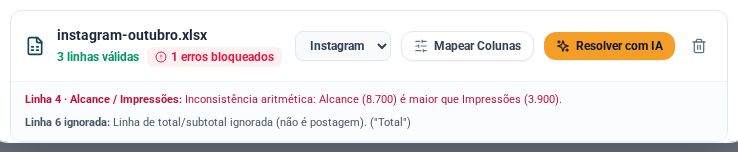
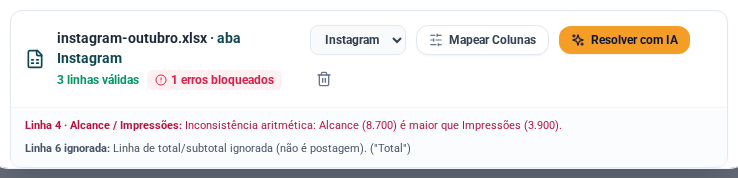
docs(manual): publica 2026-10-31

diff --git a/mes-do-analista.md b/mes-do-analista.md
@@ -17,6 +17,7 @@ Os exemplos e as telas vêm do relatório de outubro de 2026 do **Instituto Hori
 |---|---|---|
 | 1 | [Escolher o cliente ativo](#1-escolher-o-cliente-ativo) | cabeçalho do sistema |
 | 2 | [Criar o período do mês](#2-criar-o-período-do-mês), com ou [sem planilha](#criar-o-mês-sem-planilha) | Períodos & Emissão |
+| 2b | [Ler as fontes ao criar o mês](#ler-as-fontes-ao-criar-o-mês) | Períodos & Emissão |
 | 3 | [Importar as planilhas das redes](#3-importar-as-planilhas-das-redes) | Períodos & Emissão |
 | 3b | [Informar os seguidores de cada rede](#3b-informar-os-seguidores-de-cada-rede) | Períodos & Emissão |
 | 3c | [Ler da Meta, no lugar da planilha](#3c-ler-da-meta-no-lugar-da-planilha) | Períodos & Emissão |
@@ -67,8 +68,13 @@ Os exemplos e as telas vêm do relatório de outubro de 2026 do **Instituto Hori
    - **Com planilha:** siga para a importação (próxima tarefa).
    - **Sem planilha:** não escolha arquivo nenhum. O botão do canto da janela passa a dizer **Criar mês sem planilha**, e uma dica embaixo explica: sem arquivo, o mês é criado vazio, e você lê direto das redes ligadas ou acrescenta uma planilha depois. Clique nele (veja [Criar o mês sem planilha](#criar-o-mês-sem-planilha)).
    - Para desistir, feche com **Cancelar**.
+6. Se o cliente tem fontes ligadas (redes, site, cursos), a janela mostra o bloco **Ler ao criar o mês**, com cada uma já marcada. Confira o que vai ser lido e desmarque o que não quiser. Veja [Ler as fontes ao criar o mês](#ler-as-fontes-ao-criar-o-mês).
 
-![Janela Importar Novo Período, com mês, ano, ciclo de medição e a área para soltar as planilhas]({{ '/assets/img/app/app-03-novo-periodo.png' | relative_url }})
+![Janela Importar Novo Período, com mês, ano, ciclo de medição, a área para soltar as planilhas e o bloco Ler ao criar o mês, com Instagram, Facebook, YouTube e Site marcados]({{ '/assets/img/app/app-03-novo-periodo.png' | relative_url }})
+
+No celular, a janela é a mesma, em uma coluna só: o bloco **Ler ao criar o mês** fica logo acima dos botões.
+
+![Janela Importar Novo Período no celular, em uma coluna, com o bloco Ler ao criar o mês acima dos botões Cancelar e Criar mês sem planilha]({{ '/assets/img/app/app-03-novo-periodo-mobile.png' | relative_url }})
 
 ### Criar o mês sem planilha
 
@@ -77,12 +83,12 @@ Os exemplos e as telas vêm do relatório de outubro de 2026 do **Instituto Hori
 **O que acontece quando você clica em Criar mês sem planilha**
 
 1. A janela fecha e o mês aparece na lista de períodos como **"0 publicações · 0 arquivos"**. É assim que um mês vazio se apresenta, e não é erro.
-2. Ao abrir o mês, ele abre normalmente. Para cada rede ligada ao cliente você vê o bloco de leitura: **Ler da Meta**, **Ler do YouTube** e **Ler do LinkedIn** (veja as tarefas [3c](#3c-ler-da-meta-no-lugar-da-planilha) e [3d](#3d-ler-do-youtube-e-do-linkedin-no-lugar-da-planilha)). Cliente sem nenhuma rede ligada não tem esses blocos, e aí a saída é a planilha.
+2. Se havia fontes marcadas em **Ler ao criar o mês**, a leitura delas começa agora, em segundo plano (veja [Ler as fontes ao criar o mês](#ler-as-fontes-ao-criar-o-mês)). Se você desmarcou todas, o mês fica vazio. Em qualquer dos casos, ao abrir o mês, ele abre normalmente. Para cada rede ligada ao cliente você vê o bloco de leitura: **Ler da Meta**, **Ler do YouTube** e **Ler do LinkedIn** (veja as tarefas [3c](#3c-ler-da-meta-no-lugar-da-planilha) e [3d](#3d-ler-do-youtube-e-do-linkedin-no-lugar-da-planilha)). Cliente sem nenhuma rede ligada não tem esses blocos, e aí a saída é a planilha.
 3. A planilha continua valendo: **Acrescentar Planilha**, na página do mês, soma uma rede que a leitura não cobre (o TikTok, por exemplo, só entra por planilha).
 
 ![Mês criado sem planilha, com 0 publicações e 0 arquivos na lista e os blocos Ler da Meta e Ler do YouTube na página do mês]({{ '/assets/img/app/app-99-mes-vazio-blocos-leitura.png' | relative_url }})
 
-**Exemplo.** O Instituto Horizonte tem o Instagram e o Facebook ligados à Meta e o LinkedIn ligado. No dia 1º de novembro você cria **outubro de 2026** sem planilha. O mês aparece com "0 publicações · 0 arquivos"; você abre, clica em **Ler da Meta** e depois em **Ler do LinkedIn**, e as publicações entram sem arquivo nenhum.
+**Exemplo.** O Instituto Horizonte tem o Instagram e o Facebook ligados à Meta e o LinkedIn ligado. No dia 1º de novembro você cria **outubro de 2026** sem planilha e **desmarca** as fontes do bloco **Ler ao criar o mês**, porque prefere ler uma rede de cada vez. O mês aparece com "0 publicações · 0 arquivos"; você abre, clica em **Ler da Meta** e depois em **Ler do LinkedIn**, e as publicações entram sem arquivo nenhum. (Com as fontes marcadas, que é o padrão, essa leitura já teria corrido sozinha: a próxima seção conta como.)
 
 **Se o mês já existe.** Criar sem planilha um mês que já está no sistema **não grava nada e não substitui nada**. A janela fecha, a tela abre o mês que estava salvo e mostra, por alguns segundos, o aviso **"Este mês já existe: abrimos o que estava salvo."** É de propósito: você não perde as publicações, os textos nem os seguidores já lançados por apertar o botão sem pensar.
 
@@ -101,6 +107,70 @@ Os exemplos e as telas vêm do relatório de outubro de 2026 do **Instituto Hori
 | O mês aparece com **"0 publicações · 0 arquivos"** | O mês nasceu vazio, como esperado | Leia das redes ou acrescente uma planilha |
 | Não há bloco de leitura na página do mês | O cliente não tem aquela rede ligada | Avise o super-administrador para ligar a rede, ou use a planilha |
 
+### Ler as fontes ao criar o mês
+
+**Por que importa.** Antes, criar o mês era só o começo: depois você abria a página dele e clicava, rede por rede, em **Ler da Meta**, **Ler do YouTube**, **Ler do LinkedIn**, e ainda buscava os números do site e dos cursos na revisão. Agora a própria janela que cria o mês já oferece as fontes do cliente. Você cria, o sistema lê todas, uma de cada vez, **em segundo plano**, e você continua usando o app. O mês nasce com os números, e o tempo que sobra vai para conferir, não para clicar.
+
+**O bloco "Ler ao criar o mês".** Aparece na janela **Novo Período**, abaixo da área dos arquivos, para o cliente que tem pelo menos uma fonte. As fontes possíveis são **Instagram**, **Facebook**, **YouTube**, **LinkedIn**, **Site (Matomo)** e **Cursos (Moodle)**. Cada uma segue uma regra:
+
+| A fonte aparece... | Quando | O que você faz |
+|---|---|---|
+| **Marcada** | Está ligada ao cliente e em condição de ler | Nada: ela será lida. Desmarque se não quiser ler agora |
+| **Desabilitada, com o motivo embaixo** | Está ligada, mas não pode ler agora. Exemplo: **"Ligação expirada: peça ao administrador para renovar."** | Resolva o motivo (muitas vezes é do super-administrador) e use o botão de ler do mês depois |
+| **Desabilitada, com "A planilha escolhida já traz esta rede"** | Você escolheu, na mesma janela, uma planilha daquela rede | Nada. Vale **uma fonte por rede por mês**: a planilha ganhou, e a rede não é lida |
+| **Não aparece** | O cliente contratou a rede, mas ninguém a ligou ainda | Peça ao super-administrador para ligar (veja a [parte 6]({{ '/administracao/' | relative_url }})) |
+
+![Bloco Ler ao criar o mês com Instagram e Facebook desabilitados e a mensagem Ligação expirada: peça ao administrador para renovar, e YouTube e Site marcados]({{ '/assets/img/app/app-109-novo-periodo-fonte-bloqueada.png' | relative_url }})
+
+Se o mês que você está criando ainda não terminou, o bloco avisa em amarelo: **"Este mês ainda não terminou: os números lidos serão parciais, até o dia da leitura."**
+
+**Escolher planilha e ler fontes na mesma janela.** Funciona, e cada rede tem uma fonte só. No exemplo abaixo, o arquivo traz as abas do Instagram e do YouTube: as duas redes ficam bloqueadas, e o Facebook e o site, que a planilha não cobre, seguem marcados e são lidos ao criar.
+
+![Janela Novo Período com duas abas preenchidas do modelo, Instagram e YouTube, como dois cartões, e as redes delas bloqueadas em Ler ao criar o mês, enquanto Facebook e Site seguem marcados]({{ '/assets/img/app/app-106-novo-periodo-planilha-bloqueia-rede.png' | relative_url }})
+
+No celular, os cartões das planilhas e o bloco de fontes se empilham, e nada sai da tela.
+
+![Janela Novo Período no celular, com os cartões das duas abas e o bloco Ler ao criar o mês, com Instagram e YouTube bloqueados]({{ '/assets/img/app/app-106-novo-periodo-planilha-bloqueia-rede-mobile.png' | relative_url }})
+
+**O que acontece quando você cria o mês**
+
+1. A janela fecha e o mês entra na lista de períodos.
+2. Aparece o painel **Leitura das fontes**, com o nome do mês. Cada fonte passa por **Aguardando**, **Lendo…** e termina em **Concluída**, **Recusada** ou **Com falha**. Enquanto isso o painel diz que a leitura corre em segundo plano e que a tela se atualiza sozinha.
+3. **Você pode continuar trabalhando.** Nada trava: abra outro mês, mude de cliente, edite. Se você (ou outra pessoa) editar o mês enquanto a leitura corre, **a edição não se perde**: a leitura é aplicada sobre a versão mais recente do mês.
+4. Quando todas terminam, o painel troca o aviso de andamento por um resumo, como **"Leitura terminada: 1 concluída, 3 com falha."**, e lista o resultado de cada fonte. Se alguma fonte falhou ou foi recusada, o painel fica amarelo. O **X** do canto fecha o painel.
+
+![Painel Leitura das fontes de outubro de 2026, com o resumo 1 concluída, 3 com falha, Instagram e Facebook com falha pelo limite de leituras da Meta, YouTube concluído com 5 novas publicações e Site com falha porque não foi possível conectar ao Matomo]({{ '/assets/img/app/app-107-leitura-ao-criar-resultado.png' | relative_url }})
+
+No celular, o painel ocupa a largura da tela e a lista continua legível:
+
+![Painel Leitura das fontes no celular, com as mesmas quatro fontes e o resumo no alto]({{ '/assets/img/app/app-107-leitura-ao-criar-resultado-mobile.png' | relative_url }})
+
+**Como ler o resultado de cada fonte**
+
+| O painel diz | Quer dizer | O que fazer |
+|---|---|---|
+| **Concluída**, com "N novas, N atualizadas, N removidas." | A fonte foi lida e entrou no mês | Confira os números na página do mês |
+| **Concluída**, com "N linhas recusadas: …" | A fonte entrou, mas o leitor barrou algumas linhas por incoerência (as mesmas regras da [tarefa 4](#4-conferir-as-inconsistências-da-importação)) | Leia o motivo. Linha recusada não entra no relatório |
+| **Concluída**, com "Nenhuma publicação encontrada neste ciclo" | A rede não devolveu nada para as datas do ciclo. Em mês antigo, pode ser a janela de leitura da rede | Confira o ciclo. Se o mês é antigo, use a planilha |
+| **Concluída**, com "Seguidores: o mês tem N digitado e a leitura trouxe M; o digitado foi mantido." | Você já tinha digitado os seguidores, e o número digitado vale mais | Nada. Se o digitado estiver errado, corrija na [tarefa 3b](#3b-informar-os-seguidores-de-cada-rede) |
+| **Recusada** | O mês já tem publicações dessa rede vindas de planilha, e vale uma fonte por rede por mês: a leitura não foi aplicada | Mantenha a planilha, ou use o botão de ler do mês para **substituí-la** (ele pede confirmação) |
+| **Com falha**, com **"Limite de 6 leituras da Meta a cada 10 minutos atingido. Tente de novo em N s."** | A Meta limita as leituras **por pessoa**, somando todos os clientes. Instagram e Facebook, lidos juntos, gastam uma só | Espere o tempo que a tela diz e clique em **Ler da Meta** na página do mês |
+| **Com falha**, com **"Não foi possível conectar ao Matomo."** | O Matomo, que fornece os números do site, não respondeu | Na revisão, **Atualizar dados do site** ([tarefa 7](#7-revisar-o-capítulo-do-site)). Se persistir, avise o super-administrador |
+| **Com falha**, com outra mensagem (ligação vencida ou revogada, acesso do Moodle não configurado) | A ligação da rede ou o acesso ao Moodle precisa de atenção | A mensagem diz o que houve. A renovação é do super-administrador (veja a [parte 6]({{ '/administracao/' | relative_url }})) |
+
+**A falha de uma fonte não para as outras.** No painel da figura, o Instagram e o Facebook falharam e o YouTube foi lido e concluído do mesmo jeito. O que deu certo fica gravado; o que falhou, você refaz com o botão de ler da fonte.
+
+**Exemplo.** Na quinta-feira, 29 de outubro, a coordenação do Instituto Horizonte pede uma prévia do relatório de outubro. Você abre **Novo Período**, deixa **Outubro** e **2026**, e vê as quatro fontes ligadas já marcadas, com o aviso amarelo de que o mês não terminou. Clica em **Criar mês sem planilha**. O painel mostra o andamento e, em seguida, o resumo: o YouTube trouxe 5 vídeos, mas o Instagram e o Facebook falharam pelo limite de leituras da Meta e o Matomo estava fora do ar. Você espera os 540 segundos que a tela indica, clica em **Ler da Meta** na página do mês e, mais tarde, em **Atualizar dados do site** na revisão. No dia 3 de novembro, com o mês fechado, você lê de novo para trocar os números parciais pelos finais.
+
+> **Dicas e armadilhas.**
+> - **Mês em andamento traz números parciais.** A leitura só enxerga até o dia em que roda, e o painel repete o aviso. **Leia de novo depois que o mês fechar**: os números de publicações recentes ainda crescem nos dias seguintes. Relatório de mês aberto, emitido sem reler, mostra menos do que o mês teve.
+> - **Não feche a página até o painel terminar.** A leitura corre nesta página: se você a fechar antes do fim, o mês **fica criado, sem a leitura**, e os botões de ler do mês (**Ler da Meta**, **Ler do YouTube**, e os outros) seguem valendo. Nada se perde nem se duplica, mas você terá de ler à mão.
+> - **A leitura não escreve textos com IA.** Ela busca os números do site e dos cursos, mas **não roda a análise por IA** desses capítulos. Gere os textos na revisão, como sempre ([tarefa 7](#7-revisar-o-capítulo-do-site) e [tarefa 7b](#7b-revisar-o-capítulo-dos-cursos)).
+> - **Abrir um mês que já existe não lê nada.** Se o mês já está no sistema, a janela só o abre (veja [Se o mês já existe](#criar-o-mês-sem-planilha)). A leitura ao criar vale para mês novo.
+> - **Desmarcou uma rede de propósito?** Ela não é lida e não aparece no painel. Para ler depois, use o botão de ler dela na página do mês.
+> - **Muitas leituras seguidas esbarram no limite da Meta.** O limite é de 6 leituras em 10 minutos por pessoa, e cada mês criado com Instagram ou Facebook marcado gasta uma. Criando vários meses em sequência, os últimos podem falhar. Espere o tempo que a mensagem diz e leia pelo botão do mês.
+{: .tip }
+
 > **O mês de referência segue o fim do ciclo.** Um ciclo de 25/09 a 25/10 é o relatório de **outubro**. Se o sistema deduzir as datas das publicações da planilha, o mês e o ano vêm da **data final**.
 {: .note }
 
@@ -117,11 +187,40 @@ Nessa janela também há **Detectar das Postagens** (sugere as datas a partir da
 
 **Por que importa.** As planilhas são a fonte dos números das redes. Por padrão, o sistema não "puxa" dados das redes sozinho: ele lê o que você importa. (A exceção é o Instagram e o Facebook de um cliente que o super-administrador ligou à Meta, e o YouTube e o LinkedIn de um cliente ligado a essas redes: veja as tarefas [3c](#3c-ler-da-meta-no-lugar-da-planilha) e [3d](#3d-ler-do-youtube-e-do-linkedin-no-lugar-da-planilha).) Importar direito significa que os números do relatório batem com o que a rede mostra.
 
-**O modelo de planilha.** O botão **Modelo de Planilha**, no alto da página, baixa uma planilha padrão com as colunas que o sistema reconhece: data, canal, formato, pauta (título do conteúdo), link da publicação, categoria editorial, alcance, impressões, interações, curtidas, respostas/comentários, compartilhamentos, salvamentos, visitas ao perfil, visualizações de vídeo, reações e a marcação de anômalo (sim ou não). Há também uma aba **Resumo do Mês**, onde se informam o alcance da conta e o **número de seguidores** do mês, na linha **Seguidores da rede no fim do mês** (uma rede por arquivo). Você também pode digitar os seguidores direto na tela do mês, sem mexer na planilha: veja a [tarefa 3b](#3b-informar-os-seguidores-de-cada-rede). Planilhas com outros nomes de coluna também funcionam, e o sistema ajuda a ligar cada coluna ao campo certo (veja a próxima tarefa).
+**O modelo de planilha.** O botão **Modelo de Planilha**, no alto da página, baixa um arquivo com **uma aba para cada rede** (**Instagram**, **Facebook**, **LinkedIn**, **TikTok** e **YouTube**) e três abas de apoio. Cada aba de rede tem **só as colunas que aquela rede informa**, com os nomes que ela usa, e **não tem a coluna "Canal"**: a rede é a da aba. Você preenche as abas das redes que o cliente usa e deixa as outras em branco.
+
+Toda aba de rede começa com **Data**, **Pauta / Título do Conteúdo**, **Link da Publicação**, **Formato** e **Categoria Editorial**, e termina com **Anômalo (Sim/Não)**. No meio, cada rede tem as suas:
+
+| Aba | Colunas do meio |
+|---|---|
+| **Instagram** | Alcance, Impressões, Interações, Curtidas, Comentários, Compartilhamentos, Salvamentos, Visitas ao Perfil |
+| **Facebook** | Alcance, Impressões, Interações, Reações, Comentários, Compartilhamentos, Cliques no Link |
+| **LinkedIn** | Alcance, Impressões, Interações, Reações, Comentários, Compartilhamentos, Cliques |
+| **TikTok** | Visualizações (no lugar do alcance), Curtidas, Comentários, Compartilhamentos |
+| **YouTube** | Visualizações (no lugar do alcance), Curtidas, Comentários, Compartilhamentos, Taxa de Retenção |
+
+As três abas de apoio:
+
+- **Resumo do Mês.** Uma linha por rede, com **Seguidores no fim do mês** e **Alcance da conta no mês** (o alcance que a própria rede informa para a conta, que **não é a soma** do alcance de cada publicação). O YouTube e o TikTok não informam alcance da conta. Você também pode digitar os seguidores direto na tela do mês, sem mexer na planilha: veja a [tarefa 3b](#3b-informar-os-seguidores-de-cada-rede). **O número digitado na tela vale mais que o da planilha.**
+- **Exemplos.** Três linhas fictícias (Instagram, Facebook e YouTube) que mostram o jeito de preencher. **Nada dela é importado**, nem se você a preencher.
+- **Instruções & Dicionário.** O passo a passo e o que é cada coluna, com as abas em que ela aparece.
+
+**Por que uma aba por rede.** Cada rede conta de um jeito: o Instagram tem salvamentos e visitas ao perfil, o Facebook tem reações e cliques no link, o YouTube e o TikTok não informam alcance, e sim visualizações. Num modelo só, com todas as colunas misturadas, metade delas ficava sempre vazia e era fácil preencher a coluna errada. Na aba da rede, só aparece o que ela entrega, e a rede não precisa ser repetida em cada linha.
+
+**O que acontece quando você envia o arquivo.** Cada aba **preenchida** vira um **cartão** na prévia, com o nome do arquivo e a aba (por exemplo, **modelo.xlsx · aba Instagram**), e é importada como uma planilha **daquela rede**. A aba em branco é ignorada, e a rede dela continua livre para ser lida pelo **Ler ao criar o mês**. As redes das abas preenchidas, ao contrário, ficam bloqueadas ali: vale uma fonte por rede por mês.
+
+**O YouTube e o TikTok entram com visualizações no lugar do alcance**, e a origem fica marcada, como já acontece na leitura automática do YouTube. O relatório avisa que visualizações não são a mesma coisa que alcance (a mesma pessoa pode ver mais de uma vez).
+
+> **Armadilhas do modelo.**
+> - **Não mude os títulos das colunas nem o nome das abas.** Uma aba só é reconhecida como de rede se o nome **começa pelo nome da rede** ("Instagram", "Facebook"...). Renomeada para outra coisa, ela deixa de ser reconhecida como aba da rede, e as linhas dela podem ficar de fora do mês. Confira os cartões da prévia: cada aba preenchida tem de aparecer com o seu nome.
+> - **O número do Resumo do Mês de uma rede cuja aba está em branco não entra.** Se você preencheu os seguidores do Facebook no Resumo mas não preencheu nenhuma linha na aba Facebook, esse número é ignorado: ele só vale junto com a aba da rede.
+> - **Modelo em branco não cria nada.** Se você enviar o modelo sem preencher aba nenhuma, a prévia diz **"O modelo está em branco: preencha as abas das redes que o cliente usa e envie de novo."**, o botão **Consolidar Período** fica desabilitado e nenhuma rede é bloqueada em **Ler ao criar o mês**.
+> - **Planilhas no modelo antigo continuam funcionando.** O arquivo de uma aba só, com a coluna **Canal**, as exportações das redes e as planilhas já guardadas nos meses antigos são lidas como sempre foram. Não precisa refazer nada que já existe.
+{: .warning }
 
 **A exportação do Meta entra como veio.** Você pode importar direto o arquivo que o Facebook ou o Instagram exporta, sem refazer no modelo. Em algumas exportações a coluna **Data** vem com a palavra **"Total"** em vez de uma data: nesse caso o sistema usa a **data do "Horário de publicação"** de cada postagem. A linha de total de verdade (sem horário de publicação) continua sendo ignorada. O Meta exporta o horário no fuso do Pacífico, e o sistema o converte para o horário de Brasília; uma postagem feita à noite não cai mais no dia seguinte por causa do fuso.
 
-**Formato e link da exportação do Business Suite.** Em um **mês novo**, as colunas **Tipo de post** (vira o formato da publicação) e **Link permanente** (vira o link) da exportação do Business Suite da Meta são reconhecidas sozinhas, sem ligar as colunas à mão. Em um **mês que já tem publicações importadas**, nada muda, nem se você importar a mesma planilha de novo: as publicações ficam como estavam (formato "Não informado" e sem link, se foi assim que entraram), sem duplicar e sem perder o que você editou. Se você ligar as colunas à mão, a sua ligação vale como sempre valeu, e a leitura automática da Meta (**Ler da Meta**) tem o mapeamento próprio. **Armadilha:** o aviso "linhas sem Formato" da prévia da importação ainda mostra a leitura de sempre, mesmo quando o mês novo vai reconhecer a coluna ao gravar. Confira o formato e o link das publicações depois de importar, não na prévia.
+**Formato e link da exportação do Business Suite.** Em um **mês novo**, as colunas **Tipo de post** (vira o formato da publicação) e **Link permanente** (vira o link) da exportação do Business Suite da Meta são reconhecidas sozinhas, sem ligar as colunas à mão. Em um **mês que já tem publicações importadas**, nada muda, nem se você importar a mesma planilha de novo: as publicações ficam como estavam (formato "Não informado" e sem link, se foi assim que entraram), sem duplicar e sem perder o que você editou. Se você ligar as colunas à mão, a sua ligação vale como sempre valeu, e a leitura automática da Meta (**Ler da Meta**) tem o mapeamento próprio. **O aviso da prévia acompanha o que vale para o mês.** Em mês novo, com a coluna **Tipo de post** na planilha, a prévia **não mostra mais** o aviso "N linhas sem Formato", porque o formato será reconhecido ao gravar. Em mês que já tem publicações, a prévia segue mostrando o aviso, e ele é verdadeiro: as publicações ficam como estavam, sem formato. Nesse caso, confira o formato e o link depois de importar.
 
 **Alcance e "Visualizadores" (Facebook).** O Meta encerra o **Alcance** do Facebook em 31/10/2026 e passa a informar **Visualizadores**. Se a planilha tem **Visualizadores** e não tem **Alcance**, o sistema usa **Visualizadores** como o alcance daquelas postagens (a coluna **Visualizações** continua sendo as impressões; **"Visualizadores de 3 segundos"** é outra coisa e não conta). Se a planilha tem as duas colunas, vale **Alcance**. As duas medidas **não são idênticas**, e o sistema avisa quando a comparação mistura as duas (veja a próxima tarefa).
 
@@ -150,12 +249,12 @@ Nessa janela também há **Detectar das Postagens** (sugere as datas a partir da
 
 Cada planilha do período aparece como um cartão em **Extratos Importados para este Mês**, com a rede e o número de linhas. Há botões para baixar a planilha e para excluí-la. **Excluir uma planilha remove só as publicações que vieram dela, naquele período.** As de outros arquivos continuam.
 
-Se o período veio de uma **planilha online**, ele fica ligado a ela, e é possível **sincronizar** de novo quando a planilha for editada na nuvem. A sincronização atualiza só as publicações daquele período e daquele arquivo e, se houver publicações que sumiram da planilha, **avisa quantas serão removidas e pede confirmação**.
+Se o período veio de uma **planilha online**, ele fica ligado a ela, e é possível **sincronizar** de novo quando a planilha for editada na nuvem. Se a planilha online usa o modelo por rede, cada aba preenchida vira o seu cartão, e a sincronização lê **só a aba da rede** de cada cartão. A sincronização atualiza só as publicações daquele período e daquele arquivo e, se houver publicações que sumiram da planilha, **avisa quantas serão removidas e pede confirmação**.
 
 > **Dicas.**
-> - Importe **uma planilha por rede** e confira o nome do arquivo e a rede no cartão.
+> - Importe **uma planilha por rede** (ou use o modelo, com uma aba por rede) e confira o nome do arquivo, a aba e a rede no cartão.
 > - Mantenha o **mesmo modelo de planilha todo mês**. Quando o formato muda, o sistema pede para ligar as colunas de novo.
-> - Informe os seguidores de cada rede (na linha **Seguidores da rede no fim do mês** da aba **Resumo do Mês**, ou na tela do mês, como na [tarefa 3b](#3b-informar-os-seguidores-de-cada-rede)). O número vale por rede e vai para o gráfico de evolução, a capa, o comparativo e o link público. **Sem ele, o gráfico diz "Sem dado de seguidores" e a linha se interrompe naquele mês**, em vez de cair para zero. Não digite 0 para "não sei": zero é um número, e o gráfico vai mostrar que a conta perdeu todo mundo.
+> - Informe os seguidores de cada rede (na linha da rede, coluna **Seguidores no fim do mês**, da aba **Resumo do Mês**, ou na tela do mês, como na [tarefa 3b](#3b-informar-os-seguidores-de-cada-rede)). O número vale por rede e vai para o gráfico de evolução, a capa, o comparativo e o link público. **Sem ele, o gráfico diz "Sem dado de seguidores" e a linha se interrompe naquele mês**, em vez de cair para zero. Não digite 0 para "não sei": zero é um número, e o gráfico vai mostrar que a conta perdeu todo mundo.
 {: .tip }
 
 ## 3b. Informar os seguidores de cada rede
@@ -198,7 +297,7 @@ Os números da leitura são os **do momento em que você lê** (como exportar a 
 
 O passo a passo, os avisos e o que fazer quando dá errado estão em [Ler da Meta]({{ '/mes-do-analista/ler-da-meta/' | relative_url }}).
 
-> **Mês novo?** Não precisa subir planilha para ele existir: crie o mês [sem planilha](#criar-o-mês-sem-planilha) e o bloco **Ler da Meta** já está na página dele.
+> **Mês novo?** Não precisa subir planilha para ele existir: crie o mês [sem planilha](#criar-o-mês-sem-planilha) e o bloco **Ler da Meta** já está na página dele. Com o Instagram e o Facebook marcados em **Ler ao criar o mês**, a leitura corre sozinha logo depois de criar ([veja como](#ler-as-fontes-ao-criar-o-mês)), e este botão fica para refazer a leitura.
 {: .tip }
 
 ## 3d. Ler do YouTube e do LinkedIn, no lugar da planilha
@@ -209,16 +308,16 @@ O passo a passo, os avisos e o que fazer quando dá errado estão em [Ler da Met
 
 Cada rede ligada tem o **seu** bloco. O passo a passo, os avisos e o que fazer quando dá errado estão em [Ler do YouTube e do LinkedIn]({{ '/mes-do-analista/ler-do-youtube-e-linkedin/' | relative_url }}).
 
-> **Mês novo?** Crie o mês [sem planilha](#criar-o-mês-sem-planilha): os blocos **Ler do YouTube** e **Ler do LinkedIn** das redes ligadas já aparecem na página dele.
+> **Mês novo?** Crie o mês [sem planilha](#criar-o-mês-sem-planilha): os blocos **Ler do YouTube** e **Ler do LinkedIn** das redes ligadas já aparecem na página dele. Com as redes marcadas em **Ler ao criar o mês**, a leitura corre sozinha ao criar ([veja como](#ler-as-fontes-ao-criar-o-mês)), e estes botões servem para refazê-la.
 {: .tip }
 
 ## 4. Conferir as inconsistências da importação
 
 **Por que importa.** Uma planilha com erro vira um relatório com erro, e o cliente confia nele. O sistema recusa o que não faz sentido e mostra o motivo; sua tarefa é ler a lista antes de confirmar.
 
-![Cartão da planilha na janela Novo Período, com a linha recusada por alcance maior que impressões e a linha de total ignorada]({{ '/assets/img/app/app-103-importacao-erros.png' | relative_url }})
+![Cartão da planilha instagram-outubro.xlsx, aba Instagram, na janela Novo Período, com a linha recusada por alcance maior que impressões e a linha de total ignorada]({{ '/assets/img/app/app-103-importacao-erros.png' | relative_url }})
 
-O cartão de cada planilha mostra quantas linhas valem, quantas foram bloqueadas e, logo abaixo, a linha e a coluna de cada problema. A linha de total aparece como ignorada.
+O cartão de cada planilha mostra o nome do arquivo (e, no modelo por rede, a aba: **· aba Instagram**), quantas linhas valem, quantas foram bloqueadas e, logo abaixo, a linha e a coluna de cada problema. A linha de total aparece como ignorada.
 
 O que o sistema faz sozinho:
 
@@ -231,7 +330,7 @@ O que o sistema faz sozinho:
 O que você faz:
 
 1. **Leia a lista de erros** de cada planilha. Uma linha recusada **não entra no relatório**.
-2. Se as colunas estiverem trocadas, use **Mapear Colunas** (ligação manual, com a primeira amostra de cada coluna ao lado) ou **Mapear com IA** / **Corrigir com IA** (a IA lê uma amostra e propõe a ligação). Depois, **Aplicar e Reprocessar Planilha**.
+2. Se as colunas estiverem trocadas, use **Mapear Colunas** (ligação manual, com a primeira amostra de cada coluna ao lado) ou **Mapear com IA** (no cartão com erros, o botão se chama **Resolver com IA**): a IA lê uma amostra e propõe a ligação. Depois, **Aplicar e Reprocessar Planilha**.
 3. Se o erro é de digitação na planilha, **corrija na origem** e importe de novo.
 
 > **Atenção.** Linha recusada some do relatório **em silêncio** para quem só olha o total. Compare o número de publicações do período com o número de linhas da planilha. Se faltam publicações, a causa está na lista de recusadas.

diff --git a/perguntas-frequentes.md b/perguntas-frequentes.md
@@ -178,7 +178,7 @@ Aparece quando está **emitido**, com a etiqueta **Consolidado**. Em rascunho ou
 
 ### Posso criar o mês sem subir planilha?
 
-Pode. Em **Novo Período**, escolha o mês e o ano e **não escolha arquivo**: o botão passa a dizer **Criar mês sem planilha**. O mês nasce com **"0 publicações"**, abre normalmente e mostra **Ler da Meta**, **Ler do YouTube** e **Ler do LinkedIn** para as redes ligadas ao cliente. A planilha pode ser acrescentada depois. Veja [Criar o mês sem planilha]({{ '/mes-do-analista/#criar-o-mês-sem-planilha' | relative_url }}).
+Pode. Em **Novo Período**, escolha o mês e o ano e **não escolha arquivo**: o botão passa a dizer **Criar mês sem planilha**. As fontes ligadas do cliente aparecem **já marcadas** em **Ler ao criar o mês** e são lidas sozinhas, em segundo plano, logo depois de o mês ser criado. Se você desmarcar todas, o mês nasce com **"0 publicações"**, abre normalmente e mostra **Ler da Meta**, **Ler do YouTube** e **Ler do LinkedIn** para as redes ligadas. A planilha pode ser acrescentada depois. Veja [Criar o mês sem planilha]({{ '/mes-do-analista/#criar-o-mês-sem-planilha' | relative_url }}).
 
 ### Cliquei em "Criar mês sem planilha" e a tela diz "Este mês já existe: abrimos o que estava salvo." Perdi alguma coisa?
 
@@ -190,7 +190,43 @@ Porque o período não tem **nenhuma publicação dentro do ciclo**, e relatóri
 
 ### Criei um mês e ele não aparece nos Indicadores nem no consolidado. É defeito?
 
-Não. Mês sem nenhuma publicação não conta: ele só aparece nos [Indicadores]({{ '/mes-do-analista/indicadores/' | relative_url }}) e entra nas contas do [consolidado]({{ '/mes-do-analista/consolidado/' | relative_url }}) depois de receber a leitura das redes ou uma planilha.
+Não. Mês sem nenhum dado não conta (nenhuma publicação, nenhum seguidor, e site e cursos sem visita, inscrição nem conclusão; um site que respondeu com zero visitas não é dado): ele só aparece nos [Indicadores]({{ '/mes-do-analista/indicadores/' | relative_url }}) e entra nas contas do [consolidado]({{ '/mes-do-analista/consolidado/' | relative_url }}) depois de receber a leitura das redes ou uma planilha.
+
+### Criei o mês e apareceu um painel "Leitura das fontes". O que é? Preciso esperar?
+
+É a leitura das fontes que estavam marcadas em **Ler ao criar o mês**: Instagram, Facebook, YouTube, LinkedIn, site e cursos, as que o cliente tem ligadas. Ela corre **em segundo plano**, uma fonte de cada vez, e você **não precisa esperar**: pode abrir outro mês ou outro cliente. Só **não feche a página** até o painel mostrar o resumo. Veja [Ler as fontes ao criar o mês]({{ '/mes-do-analista/#ler-as-fontes-ao-criar-o-mês' | relative_url }}).
+
+### Fechei a página antes de a leitura terminar. Perdi o mês?
+
+Não. O mês **fica criado, mas sem a leitura**. Abra o mês e use os botões de sempre: **Ler da Meta**, **Ler do YouTube**, **Ler do LinkedIn**, e na revisão **Atualizar dados do site** e **Atualizar dados dos cursos**.
+
+### O painel diz que uma fonte falhou e as outras deram certo. O mês está bom?
+
+Está bom no que deu certo: **a falha de uma fonte não para as outras**, e o que foi lido fica gravado. A fonte com falha mostra o motivo (por exemplo, o limite de 6 leituras da Meta em 10 minutos, ou o Matomo fora do ar). Resolva o motivo e refaça só aquela fonte pelo botão dela.
+
+### Uma fonte aparece apagada na janela Novo Período, ou nem aparece. Por quê?
+
+Há três casos. **Não aparece**: o cliente contratou a rede, mas ninguém a ligou ainda (é do super-administrador). **Aparece apagada, com o motivo embaixo** ("Ligação expirada: peça ao administrador para renovar.", por exemplo): a rede está ligada, mas não pode ler agora. **Aparece apagada com "A planilha escolhida já traz esta rede"**: você escolheu uma planilha daquela rede na mesma janela, e vale uma fonte por rede por mês.
+
+### A leitura ao criar o mês trouxe poucos números. Por quê?
+
+Quase sempre porque o mês **ainda não terminou**: a leitura traz o que a rede mostra até o dia em que roda (a janela avisa isso). Leia de novo depois que o mês fechar. Em mês antigo, a própria rede pode ter deixado as publicações fora da janela de leitura dela, e a saída é a planilha.
+
+### Para que servem as abas do modelo de planilha? Preciso preencher todas?
+
+Não. O modelo tem uma aba para cada rede (Instagram, Facebook, LinkedIn, TikTok e YouTube): **preencha só as das redes que o cliente usa**. A aba em branco é ignorada. Cada aba preenchida vira uma importação da sua rede. A aba **Resumo do Mês** guarda os seguidores e o alcance da conta de cada rede, a aba **Exemplos** só mostra como preencher e **nunca é importada**, e a aba **Instruções & Dicionário** explica cada coluna. Veja [O modelo de planilha]({{ '/mes-do-analista/#3-importar-as-planilhas-das-redes' | relative_url }}).
+
+### Digitei os seguidores na tela do mês e a planilha traz outro número. Qual vale?
+
+O **digitado na tela** vale mais. A tela do mês diz qual está valendo.
+
+### O YouTube e o TikTok do modelo não têm a coluna Alcance. Está faltando?
+
+Não. Essas redes não informam alcance. A coluna é **Visualizações (no lugar do alcance)**, e o relatório marca a origem e avisa que visualizações não são a mesma coisa que alcance.
+
+### Minha planilha é do modelo antigo, com uma aba só e a coluna Canal. Ainda funciona?
+
+Funciona, como sempre funcionou. As planilhas do modelo antigo, as exportações das redes e as planilhas já guardadas em meses antigos continuam sendo lidas do mesmo jeito.
 
 ## Sobre a leitura pela Meta
 

diff --git a/glossario.md b/glossario.md
@@ -45,7 +45,7 @@ Definições curtas, em ordem alfabética, do jeito que cada termo é usado nest
 
 **Conversão.** Ação importante concluída no site: formulário, clique no WhatsApp, e-mail ou telefone. Veja [Conversão]({{ '/conceitos/' | relative_url }}).
 
-**Criar mês sem planilha.** Botão da janela **Novo Período** quando nenhum arquivo foi escolhido. O mês nasce vazio ("0 publicações"), abre normalmente e mostra os blocos de leitura das redes ligadas ao cliente; a planilha pode ser acrescentada depois. Se o mês já existe, nada é substituído: a tela abre o que estava salvo. Veja [Criar o mês sem planilha]({{ '/mes-do-analista/#criar-o-mês-sem-planilha' | relative_url }}).
+**Criar mês sem planilha.** Botão da janela **Novo Período** quando nenhum arquivo foi escolhido. As fontes ligadas do cliente são lidas ao criar, se estiverem marcadas; sem leitura, o mês nasce vazio ("0 publicações"), abre normalmente e mostra os blocos de leitura das redes ligadas ao cliente; a planilha pode ser acrescentada depois. Se o mês já existe, nada é substituído: a tela abre o que estava salvo. Veja [Criar o mês sem planilha]({{ '/mes-do-analista/#criar-o-mês-sem-planilha' | relative_url }}).
 
 ## D
 
@@ -70,6 +70,8 @@ Definições curtas, em ordem alfabética, do jeito que cada termo é usado nest
 **Impressões.** Quantas vezes a publicação apareceu na tela, contando repetições. Veja [Impressões]({{ '/conceitos/' | relative_url }}).
 
 ## L
+
+**Ler ao criar o mês.** Bloco da janela **Novo Período** que lista as fontes ligadas do cliente (Instagram, Facebook, YouTube, LinkedIn, site e cursos), já marcadas. Ao criar o mês, as marcadas são lidas em segundo plano, e o painel **Leitura das fontes** mostra o resultado de cada uma: concluída, recusada ou com falha. Veja [Ler as fontes ao criar o mês]({{ '/mes-do-analista/#ler-as-fontes-ao-criar-o-mês' | relative_url }}).
 
 **Ler da Meta.** Botão da página do mês que traz as publicações do Instagram e do Facebook direto das contas do cliente, no lugar da planilha, para os clientes ligados à Meta. Os números são os do momento da leitura. Veja [Ler da Meta]({{ '/mes-do-analista/ler-da-meta/' | relative_url }}).
 
@@ -98,6 +100,8 @@ Definições curtas, em ordem alfabética, do jeito que cada termo é usado nest
 **Meta (empresa).** Dona do Instagram e do Facebook. É de lá que vêm a planilha exportada e, nos clientes ligados, a leitura direta. Veja [Ligar o Instagram e o Facebook]({{ '/administracao/meta/' | relative_url }}).
 
 **Meta** (do site). Ação que o site mede como conversão (por exemplo, um formulário enviado). Não é a empresa Meta, dona do Instagram e do Facebook. Veja [Conversões]({{ '/como-ler-o-relatorio/site/' | relative_url }}).
+
+**Modelo de planilha.** Arquivo baixado pelo botão **Modelo de Planilha**, com uma aba para cada rede (Instagram, Facebook, LinkedIn, TikTok e YouTube), cada uma só com as colunas que a rede informa, mais as abas **Resumo do Mês**, **Exemplos** e **Instruções & Dicionário**. Cada aba preenchida vira a importação da sua rede. Veja [O modelo de planilha]({{ '/mes-do-analista/#3-importar-as-planilhas-das-redes' | relative_url }}).
 
 ## P
 

diff --git a/indicadores-bi.md b/indicadores-bi.md
@@ -25,7 +25,7 @@ Entender a origem evita a maior parte das dúvidas:
 - **Mais de um relatório no mesmo mês?** Vale o **emitido**; sem ele, o **validado**; sem ele, o **rascunho**. Relatório **consolidado** (vários meses em um) não entra: o mês dele já está nos relatórios mensais. O consolidado, por sua vez, **lê esta mesma base**.
 - **Relatório vence marco.** Quando o mês tem os dois, vale o relatório, que é mais detalhado.
 - **Com YouTube, a tela traz notas de fonte e de cálculo próprio.** Quando algum mês do período tem YouTube, os cartões e os gráficos mostram **"Fonte dos números do YouTube: YouTube."** e avisam que score, taxa de engajamento e totais são **cálculo próprio** do SocialReport e que, no YouTube, impressões são visualizações. Sem YouTube, nenhuma nota. Se os dados do YouTube lidos da API de um cliente saem dos relatórios (ao desligar o canal, por exemplo), os meses afetados são refeitos e **um mês que só tinha YouTube deixa de contar** aqui.
-- **Mês criado e ainda vazio não conta.** Um mês que foi [criado sem planilha]({{ '/mes-do-analista/#criar-o-mês-sem-planilha' | relative_url }}) e ainda não recebeu nenhuma publicação **não aparece** nos Indicadores. Ele passa a aparecer assim que a leitura das redes ou uma planilha trouxer publicações.
+- **Mês sem nenhum dado não conta.** Um mês que foi [criado sem planilha]({{ '/mes-do-analista/#criar-o-mês-sem-planilha' | relative_url }}) e ainda não recebeu nada **não aparece** nos Indicadores. "Nada" quer dizer: nenhuma publicação no ciclo, nenhum seguidor informado, nenhum alcance da conta, nenhuma menção na imprensa e **zero** visitas ao site, zero inscrições e zero conclusões nos cursos. **Site ou cursos zerados não bastam para o mês contar**: é comum a revisão buscar o site de um mês vazio e receber zero visitas, e isso não faz dele um mês com dado. O mês passa a aparecer assim que a leitura das redes, uma planilha ou uma visita de verdade ao site trouxer algo.
 - **Mês sem dado aparece como "—", nunca como zero.** Zero quer dizer "aconteceu zero vezes"; o traço quer dizer "não foi medido". A diferença muda a conclusão.
 
 ## Passo a passo

diff --git a/ler-da-meta.md b/ler-da-meta.md
@@ -28,7 +28,7 @@ A planilha exportada é o ponto fraco do fechamento do mês: é preciso lembrar 
 
 1. **Uma fonte por rede, em cada mês.** O Instagram do mês vem **ou** da planilha **ou** da Meta, nunca dos dois: somar os dois contaria cada publicação duas vezes. Se o mês já tem postagens do Instagram vindas de planilha, o sistema pergunta se pode substituí-las (veja o passo 3). A planilha **fica guardada**, e dá para voltar a ela.
 2. **Os números são os do momento da leitura.** Uma publicação continua acumulando alcance e interações nos dias seguintes. A leitura traz o que a Meta mostra **naquela hora**, e a tela diz: **"lido em dd/mm hh:mm (números acumulados até esse momento)"**. É o mesmo que exportar a planilha naquele dia: quem exporta no dia 1º e quem lê no dia 1º veem o mesmo número. Se ler de novo uma semana depois, os números das publicações do fim do mês estarão maiores.
-3. **O mês precisa existir.** O bloco fica na página de um mês que já existe. Se o mês ainda não existe, crie-o **sem planilha**: em **Novo Período**, não escolha arquivo e clique em **Criar mês sem planilha** (veja a [tarefa 2]({{ '/mes-do-analista/#criar-o-mês-sem-planilha' | relative_url }})). O mês nasce com **"0 publicações"** e já abre com o bloco **Ler da Meta**. Não é preciso subir uma planilha só para o mês nascer.
+3. **O mês precisa existir.** O bloco fica na página de um mês que já existe. Se o mês ainda não existe, crie-o **sem planilha**: em **Novo Período**, não escolha arquivo e clique em **Criar mês sem planilha** (veja a [tarefa 2]({{ '/mes-do-analista/#criar-o-mês-sem-planilha' | relative_url }})). O mês nasce com **"0 publicações"** e já abre com o bloco **Ler da Meta**. Não é preciso subir uma planilha só para o mês nascer. Com **Instagram** e **Facebook** marcados em **Ler ao criar o mês**, a leitura já corre sozinha logo depois de o mês ser criado (veja [Ler as fontes ao criar o mês]({{ '/mes-do-analista/#ler-as-fontes-ao-criar-o-mês' | relative_url }})); este botão serve para refazê-la.
 
 ## Passo a passo
 

diff --git a/ler-do-youtube-e-linkedin.md b/ler-do-youtube-e-linkedin.md
@@ -45,7 +45,7 @@ Cada rede tem o **seu** botão, no seu bloco, e as duas leituras são independen
 
 1. **Uma fonte por rede, em cada mês.** O YouTube do mês vem **ou** da planilha **ou** da leitura, nunca dos dois: somar os dois contaria cada vídeo duas vezes. Se o mês já tem vídeos de planilha, o sistema pergunta se pode substituí-los (veja o passo 3). A planilha **fica guardada**, e dá para voltar a ela. O mesmo vale para o LinkedIn.
 2. **Os números são os do momento da leitura.** Uma publicação continua acumulando visualizações e interações nos dias seguintes. A leitura traz o que a rede mostra **naquela hora**, e a tela diz: **"lido em dd/mm hh:mm (números acumulados até esse momento)"**. É o mesmo que exportar a planilha naquele dia.
-3. **O mês precisa existir.** Os blocos ficam na página de um mês que já existe. Se o mês ainda não existe, crie-o **sem planilha**: em **Novo Período**, não escolha arquivo e clique em **Criar mês sem planilha** (veja a [tarefa 2]({{ '/mes-do-analista/#criar-o-mês-sem-planilha' | relative_url }})). O mês nasce com **"0 publicações"** e já abre com os blocos **Ler do YouTube** e **Ler do LinkedIn** das redes ligadas. Não é preciso subir uma planilha só para o mês nascer.
+3. **O mês precisa existir.** Os blocos ficam na página de um mês que já existe. Se o mês ainda não existe, crie-o **sem planilha**: em **Novo Período**, não escolha arquivo e clique em **Criar mês sem planilha** (veja a [tarefa 2]({{ '/mes-do-analista/#criar-o-mês-sem-planilha' | relative_url }})). O mês nasce com **"0 publicações"** e já abre com os blocos **Ler do YouTube** e **Ler do LinkedIn** das redes ligadas. Não é preciso subir uma planilha só para o mês nascer. Com o **YouTube** (e o **LinkedIn**, quando a leitura dele estiver disponível) marcados em **Ler ao criar o mês**, a leitura já corre sozinha logo depois de o mês ser criado (veja [Ler as fontes ao criar o mês]({{ '/mes-do-analista/#ler-as-fontes-ao-criar-o-mês' | relative_url }})); estes botões servem para refazê-la.
 
 ## Passo a passo
 

diff --git a/relatorio-consolidado.md b/relatorio-consolidado.md
@@ -26,7 +26,7 @@ O consolidado faz as contas **pela mesma regra dos [Indicadores (BI)]({{ '/mes-d
 - **O mês em andamento entra.** Diferente dos Indicadores, aqui **não há interruptor**: o consolidado é feito por você, que sabe o que está entregando. O mês incompleto entra com o selo **parcial**, e as variações dele saem **neutras**, sem seta de alta ou queda.
 - **Os números ficam guardados no consolidado.** Ao criar, o sistema tira um "retrato" da base e o guarda. A partir daí, o link público e o PDF mostram **esse retrato**, e não a base ao vivo. Isso evita que um relatório já entregue mude sozinho. Se a base mudou depois, a revisão avisa e você decide se atualiza (veja [a seção 1 da revisão](#1-situação-dos-meses)).
 - **Mês sem dado aparece fora das somas, nunca como zero.** E o total diz quantos meses entraram: "soma de 2 de 3 meses".
-- **Mês vazio também não conta.** Um mês [criado sem planilha]({{ '/mes-do-analista/#criar-o-mês-sem-planilha' | relative_url }}) que ainda não recebeu nenhuma publicação **não aparece** no consolidado: para as contas, é como se o mês não tivesse relatório. Leia das redes ou acrescente a planilha **antes** de criar o consolidado, e confira a prévia de cobertura.
+- **Mês vazio também não conta.** Um mês [criado sem planilha]({{ '/mes-do-analista/#criar-o-mês-sem-planilha' | relative_url }}) que ainda não recebeu nenhum dado (nenhuma publicação, nenhum seguidor, e site e cursos sem visita, inscrição nem conclusão) **não aparece** no consolidado: para as contas, é como se o mês não tivesse relatório. Leia das redes ou acrescente a planilha **antes** de criar o consolidado, e confira a prévia de cobertura.
 
 ## Criar um consolidado
 
